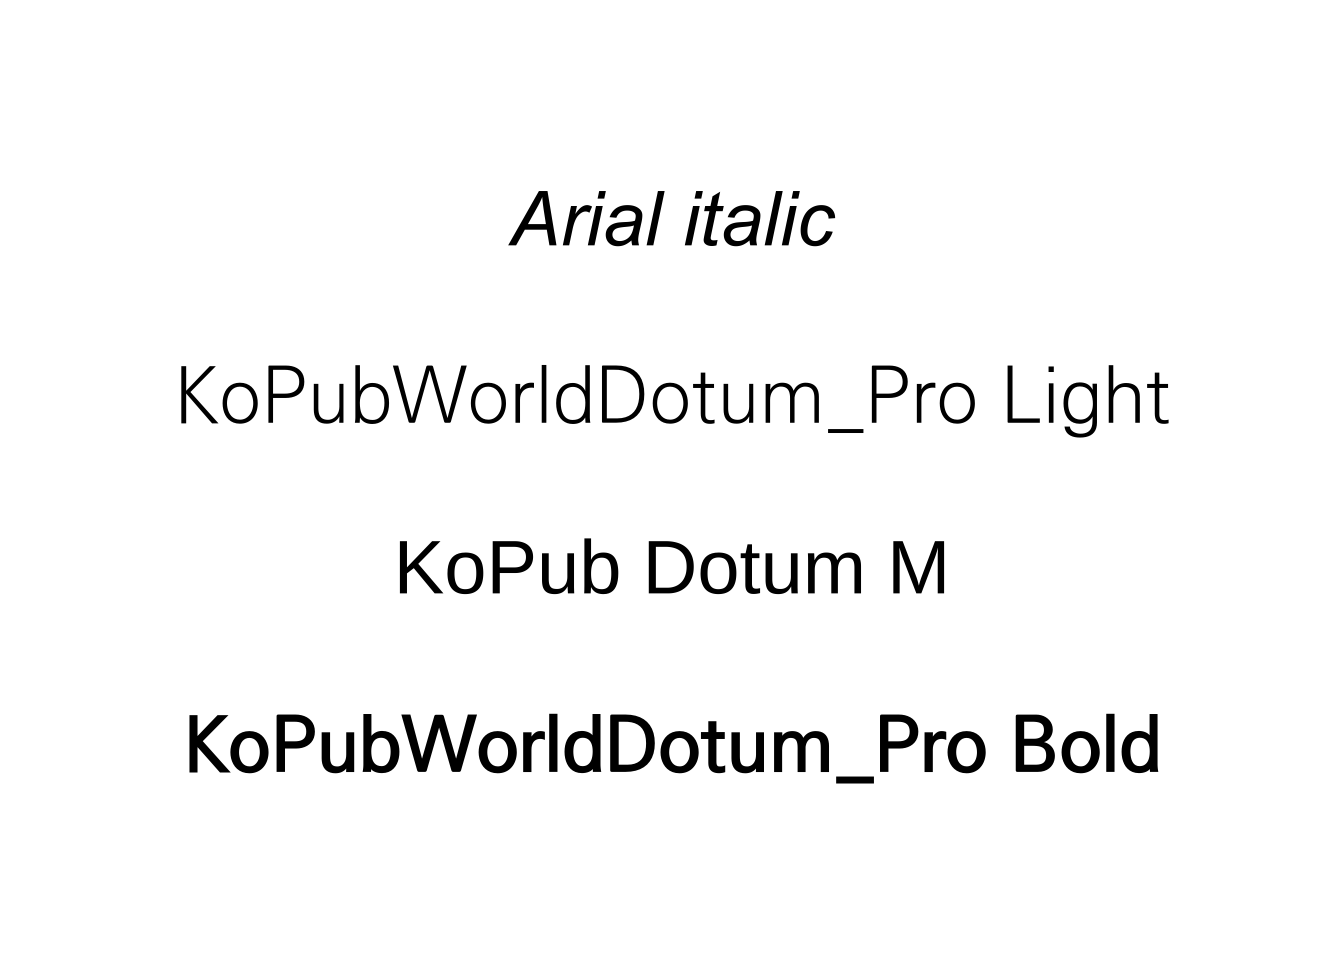
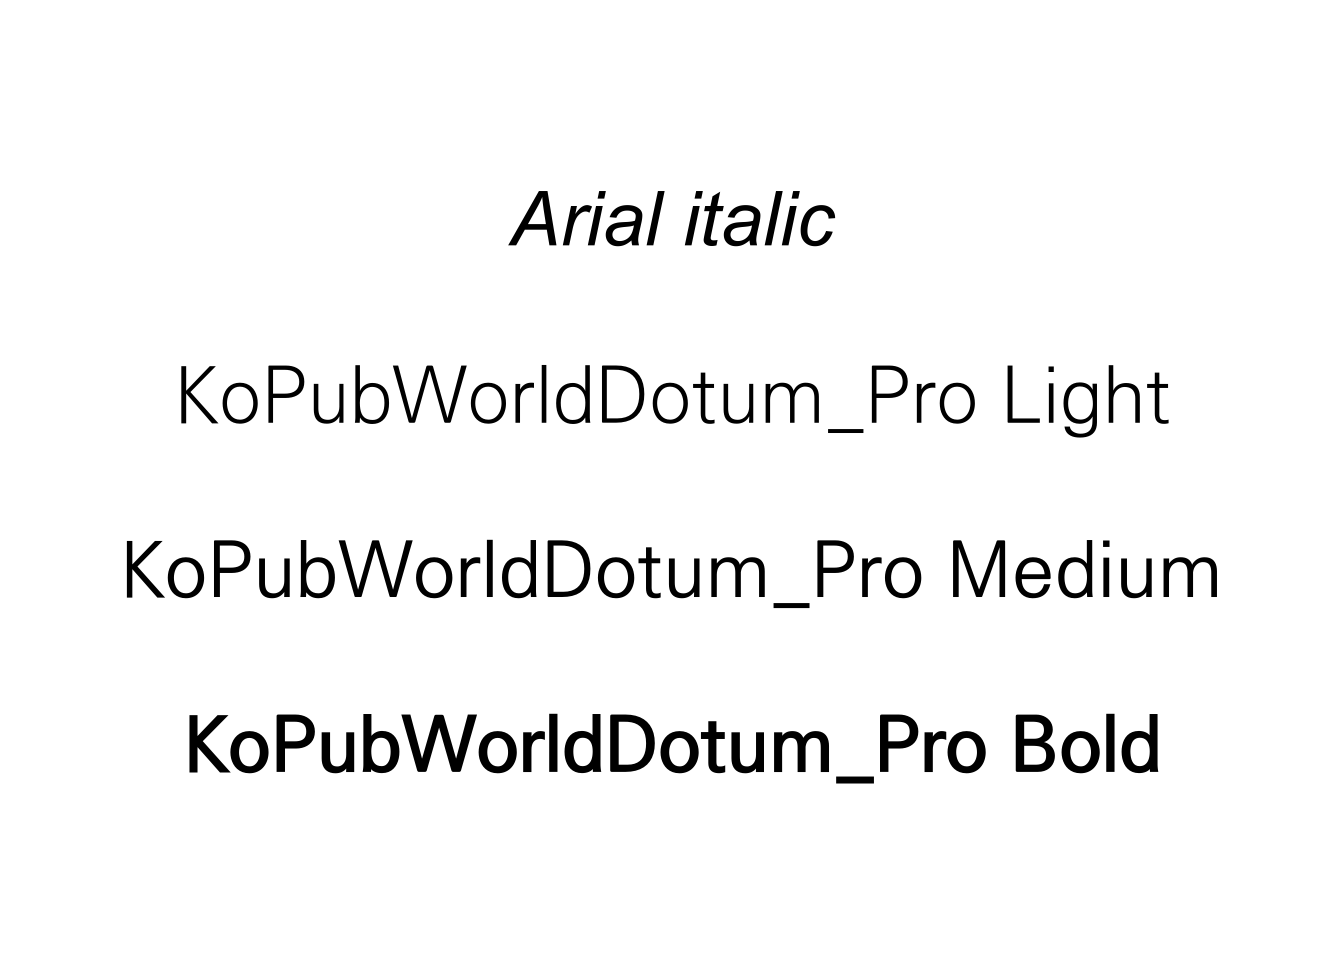
edit error

Changed region(s): [[0.0938, 0.5625, 0.9062, 0.625]]

diff --git a/docs/setting.html b/docs/setting.html
@@ -172,7 +172,12 @@ code span.wa { color: #60a0b0; font-weight: bold; font-style: italic; } /* Warni
 <li class="chapter" data-level="3.3.2" data-path="r-tips.html"><a href="r-tips.html#data-만들기"><i class="fa fa-check"></i><b>3.3.2</b> data 만들기</a></li>
 <li class="chapter" data-level="3.3.3" data-path="r-tips.html"><a href="r-tips.html#함수-만들기"><i class="fa fa-check"></i><b>3.3.3</b> 함수 만들기</a></li>
 </ul></li>
-<li class="chapter" data-level="3.4" data-path="r-tips.html"><a href="r-tips.html#showtext-rmarkdown"><i class="fa fa-check"></i><b>3.4</b> showtext &amp; Rmarkdown</a></li>
+<li class="chapter" data-level="3.4" data-path="r-tips.html"><a href="r-tips.html#showtext-rmarkdown"><i class="fa fa-check"></i><b>3.4</b> showtext &amp; Rmarkdown</a>
+<ul>
+<li class="chapter" data-level="3.4.1" data-path="r-tips.html"><a href="r-tips.html#출처"><i class="fa fa-check"></i><b>3.4.1</b> 출처</a></li>
+<li class="chapter" data-level="3.4.2" data-path="r-tips.html"><a href="r-tips.html#problem"><i class="fa fa-check"></i><b>3.4.2</b> problem</a></li>
+<li class="chapter" data-level="3.4.3" data-path="r-tips.html"><a href="r-tips.html#해결방법"><i class="fa fa-check"></i><b>3.4.3</b> 해결방법</a></li>
+</ul></li>
 </ul></li>
 <li class="chapter" data-level="4" data-path="data-preprocessing.html"><a href="data-preprocessing.html"><i class="fa fa-check"></i><b>4</b> data preprocessing</a>
 <ul>
@@ -462,8 +467,8 @@ rscodeio::install_theme()</code></pre></li>
 <span id="cb24-4"><a href="setting.html#cb24-4" aria-hidden="true" tabindex="-1"></a>         <span class="at">label =</span> <span class="st">&#39;Arial italic&#39;</span>) <span class="sc">+</span></span>
 <span id="cb24-5"><a href="setting.html#cb24-5" aria-hidden="true" tabindex="-1"></a><span class="fu">annotate</span>(<span class="st">&quot;text&quot;</span>, <span class="dv">1</span>, <span class="fl">1.1</span>,<span class="at">family =</span> <span class="st">&#39;KoPubDotumL&#39;</span>, <span class="at">size =</span> <span class="dv">10</span>,</span>
 <span id="cb24-6"><a href="setting.html#cb24-6" aria-hidden="true" tabindex="-1"></a>         <span class="at">label =</span> <span class="st">&quot;KoPubWorldDotum_Pro Light&quot;</span>) <span class="sc">+</span> </span>
-<span id="cb24-7"><a href="setting.html#cb24-7" aria-hidden="true" tabindex="-1"></a><span class="fu">annotate</span>(<span class="st">&quot;text&quot;</span>, <span class="dv">1</span>, <span class="dv">1</span>, <span class="at">family =</span> <span class="st">&#39;KoPubWorldDotum_Pro Medium&#39;</span>, <span class="at">size =</span> <span class="dv">10</span>,</span>
-<span id="cb24-8"><a href="setting.html#cb24-8" aria-hidden="true" tabindex="-1"></a>         <span class="at">label =</span> <span class="st">&quot;KoPub Dotum M&quot;</span>) <span class="sc">+</span> </span>
+<span id="cb24-7"><a href="setting.html#cb24-7" aria-hidden="true" tabindex="-1"></a><span class="fu">annotate</span>(<span class="st">&quot;text&quot;</span>, <span class="dv">1</span>, <span class="dv">1</span>, <span class="at">family =</span> <span class="st">&#39;KoPubDotumM&#39;</span>, <span class="at">size =</span> <span class="dv">10</span>,</span>
+<span id="cb24-8"><a href="setting.html#cb24-8" aria-hidden="true" tabindex="-1"></a>         <span class="at">label =</span> <span class="st">&quot;KoPubWorldDotum_Pro Medium&quot;</span>) <span class="sc">+</span> </span>
 <span id="cb24-9"><a href="setting.html#cb24-9" aria-hidden="true" tabindex="-1"></a><span class="fu">annotate</span>(<span class="st">&quot;text&quot;</span>, <span class="dv">1</span>, <span class="fl">0.9</span>, <span class="at">family =</span> <span class="st">&#39;KoPubDotumB&#39;</span>, <span class="at">size =</span> <span class="dv">10</span>,</span>
 <span id="cb24-10"><a href="setting.html#cb24-10" aria-hidden="true" tabindex="-1"></a>         <span class="at">label =</span> <span class="st">&quot;KoPubWorldDotum_Pro Bold&quot;</span>) <span class="sc">+</span></span>
 <span id="cb24-11"><a href="setting.html#cb24-11" aria-hidden="true" tabindex="-1"></a><span class="fu">theme_void</span>()</span></code></pre></div>

diff --git a/docs/r-tips.html b/docs/r-tips.html
@@ -172,7 +172,12 @@ code span.wa { color: #60a0b0; font-weight: bold; font-style: italic; } /* Warni
 <li class="chapter" data-level="3.3.2" data-path="r-tips.html"><a href="r-tips.html#data-만들기"><i class="fa fa-check"></i><b>3.3.2</b> data 만들기</a></li>
 <li class="chapter" data-level="3.3.3" data-path="r-tips.html"><a href="r-tips.html#함수-만들기"><i class="fa fa-check"></i><b>3.3.3</b> 함수 만들기</a></li>
 </ul></li>
-<li class="chapter" data-level="3.4" data-path="r-tips.html"><a href="r-tips.html#showtext-rmarkdown"><i class="fa fa-check"></i><b>3.4</b> showtext &amp; Rmarkdown</a></li>
+<li class="chapter" data-level="3.4" data-path="r-tips.html"><a href="r-tips.html#showtext-rmarkdown"><i class="fa fa-check"></i><b>3.4</b> showtext &amp; Rmarkdown</a>
+<ul>
+<li class="chapter" data-level="3.4.1" data-path="r-tips.html"><a href="r-tips.html#출처"><i class="fa fa-check"></i><b>3.4.1</b> 출처</a></li>
+<li class="chapter" data-level="3.4.2" data-path="r-tips.html"><a href="r-tips.html#problem"><i class="fa fa-check"></i><b>3.4.2</b> problem</a></li>
+<li class="chapter" data-level="3.4.3" data-path="r-tips.html"><a href="r-tips.html#해결방법"><i class="fa fa-check"></i><b>3.4.3</b> 해결방법</a></li>
+</ul></li>
 </ul></li>
 <li class="chapter" data-level="4" data-path="data-preprocessing.html"><a href="data-preprocessing.html"><i class="fa fa-check"></i><b>4</b> data preprocessing</a>
 <ul>
@@ -414,8 +419,8 @@ LazyData: true</code></pre>
 </div>
 <div id="showtext-rmarkdown" class="section level2" number="3.4">
 <h2><span class="header-section-number">3.4</span> showtext &amp; Rmarkdown</h2>
-<div id="출처" class="section level4" number="3.4.0.1">
-<h4><span class="header-section-number">3.4.0.1</span> 출처</h4>
+<div id="출처" class="section level3" number="3.4.1">
+<h3><span class="header-section-number">3.4.1</span> 출처</h3>
 <ul>
 <li><a href="https://yjunechoe.github.io/posts/2021-06-24-setting-up-and-debugging-custom-fonts/">Setting up and debugging custom fonts</a></li>
 <li><a href="http://aispiration.com/comp_document/ds-presn.html">데이터 과학을 위한 저작도구</a></li>
@@ -423,8 +428,8 @@ LazyData: true</code></pre>
 <li><a href="https://danbi-ncsoft.github.io/etc/2018/07/24/use-your-font-in-r.html">너의 폰트를 써라! (R에서도)</a></li>
 </ul>
 </div>
-<div id="problem" class="section level4" number="3.4.0.2">
-<h4><span class="header-section-number">3.4.0.2</span> problem</h4>
+<div id="problem" class="section level3" number="3.4.2">
+<h3><span class="header-section-number">3.4.2</span> problem</h3>
 <ul>
 <li>font에 대한 package를 showtext로 바꾼 이후 knitr할 때 font가 적용되지 않는 문제가 발생
 <ul>
@@ -433,8 +438,8 @@ LazyData: true</code></pre>
 </ul></li>
 </ul>
 </div>
-<div id="해결방법" class="section level4" number="3.4.0.3">
-<h4><span class="header-section-number">3.4.0.3</span> 해결방법</h4>
+<div id="해결방법" class="section level3" number="3.4.3">
+<h3><span class="header-section-number">3.4.3</span> 해결방법</h3>
 <ul>
 <li>rmarkdown의 chunk에 있는 graph에 적용하는 방법
 <ul>

diff --git a/docs/404.html b/docs/404.html
@@ -172,7 +172,12 @@ code span.wa { color: #60a0b0; font-weight: bold; font-style: italic; } /* Warni
 <li class="chapter" data-level="3.3.2" data-path="r-tips.html"><a href="r-tips.html#data-만들기"><i class="fa fa-check"></i><b>3.3.2</b> data 만들기</a></li>
 <li class="chapter" data-level="3.3.3" data-path="r-tips.html"><a href="r-tips.html#함수-만들기"><i class="fa fa-check"></i><b>3.3.3</b> 함수 만들기</a></li>
 </ul></li>
-<li class="chapter" data-level="3.4" data-path="r-tips.html"><a href="r-tips.html#showtext-rmarkdown"><i class="fa fa-check"></i><b>3.4</b> showtext &amp; Rmarkdown</a></li>
+<li class="chapter" data-level="3.4" data-path="r-tips.html"><a href="r-tips.html#showtext-rmarkdown"><i class="fa fa-check"></i><b>3.4</b> showtext &amp; Rmarkdown</a>
+<ul>
+<li class="chapter" data-level="3.4.1" data-path="r-tips.html"><a href="r-tips.html#출처"><i class="fa fa-check"></i><b>3.4.1</b> 출처</a></li>
+<li class="chapter" data-level="3.4.2" data-path="r-tips.html"><a href="r-tips.html#problem"><i class="fa fa-check"></i><b>3.4.2</b> problem</a></li>
+<li class="chapter" data-level="3.4.3" data-path="r-tips.html"><a href="r-tips.html#해결방법"><i class="fa fa-check"></i><b>3.4.3</b> 해결방법</a></li>
+</ul></li>
 </ul></li>
 <li class="chapter" data-level="4" data-path="data-preprocessing.html"><a href="data-preprocessing.html"><i class="fa fa-check"></i><b>4</b> data preprocessing</a>
 <ul>

diff --git a/docs/data-preprocessing.html b/docs/data-preprocessing.html
@@ -172,7 +172,12 @@ code span.wa { color: #60a0b0; font-weight: bold; font-style: italic; } /* Warni
 <li class="chapter" data-level="3.3.2" data-path="r-tips.html"><a href="r-tips.html#data-만들기"><i class="fa fa-check"></i><b>3.3.2</b> data 만들기</a></li>
 <li class="chapter" data-level="3.3.3" data-path="r-tips.html"><a href="r-tips.html#함수-만들기"><i class="fa fa-check"></i><b>3.3.3</b> 함수 만들기</a></li>
 </ul></li>
-<li class="chapter" data-level="3.4" data-path="r-tips.html"><a href="r-tips.html#showtext-rmarkdown"><i class="fa fa-check"></i><b>3.4</b> showtext &amp; Rmarkdown</a></li>
+<li class="chapter" data-level="3.4" data-path="r-tips.html"><a href="r-tips.html#showtext-rmarkdown"><i class="fa fa-check"></i><b>3.4</b> showtext &amp; Rmarkdown</a>
+<ul>
+<li class="chapter" data-level="3.4.1" data-path="r-tips.html"><a href="r-tips.html#출처"><i class="fa fa-check"></i><b>3.4.1</b> 출처</a></li>
+<li class="chapter" data-level="3.4.2" data-path="r-tips.html"><a href="r-tips.html#problem"><i class="fa fa-check"></i><b>3.4.2</b> problem</a></li>
+<li class="chapter" data-level="3.4.3" data-path="r-tips.html"><a href="r-tips.html#해결방법"><i class="fa fa-check"></i><b>3.4.3</b> 해결방법</a></li>
+</ul></li>
 </ul></li>
 <li class="chapter" data-level="4" data-path="data-preprocessing.html"><a href="data-preprocessing.html"><i class="fa fa-check"></i><b>4</b> data preprocessing</a>
 <ul>

diff --git a/docs/index.html b/docs/index.html
@@ -172,7 +172,12 @@ code span.wa { color: #60a0b0; font-weight: bold; font-style: italic; } /* Warni
 <li class="chapter" data-level="3.3.2" data-path="r-tips.html"><a href="r-tips.html#data-만들기"><i class="fa fa-check"></i><b>3.3.2</b> data 만들기</a></li>
 <li class="chapter" data-level="3.3.3" data-path="r-tips.html"><a href="r-tips.html#함수-만들기"><i class="fa fa-check"></i><b>3.3.3</b> 함수 만들기</a></li>
 </ul></li>
-<li class="chapter" data-level="3.4" data-path="r-tips.html"><a href="r-tips.html#showtext-rmarkdown"><i class="fa fa-check"></i><b>3.4</b> showtext &amp; Rmarkdown</a></li>
+<li class="chapter" data-level="3.4" data-path="r-tips.html"><a href="r-tips.html#showtext-rmarkdown"><i class="fa fa-check"></i><b>3.4</b> showtext &amp; Rmarkdown</a>
+<ul>
+<li class="chapter" data-level="3.4.1" data-path="r-tips.html"><a href="r-tips.html#출처"><i class="fa fa-check"></i><b>3.4.1</b> 출처</a></li>
+<li class="chapter" data-level="3.4.2" data-path="r-tips.html"><a href="r-tips.html#problem"><i class="fa fa-check"></i><b>3.4.2</b> problem</a></li>
+<li class="chapter" data-level="3.4.3" data-path="r-tips.html"><a href="r-tips.html#해결방법"><i class="fa fa-check"></i><b>3.4.3</b> 해결방법</a></li>
+</ul></li>
 </ul></li>
 <li class="chapter" data-level="4" data-path="data-preprocessing.html"><a href="data-preprocessing.html"><i class="fa fa-check"></i><b>4</b> data preprocessing</a>
 <ul>
